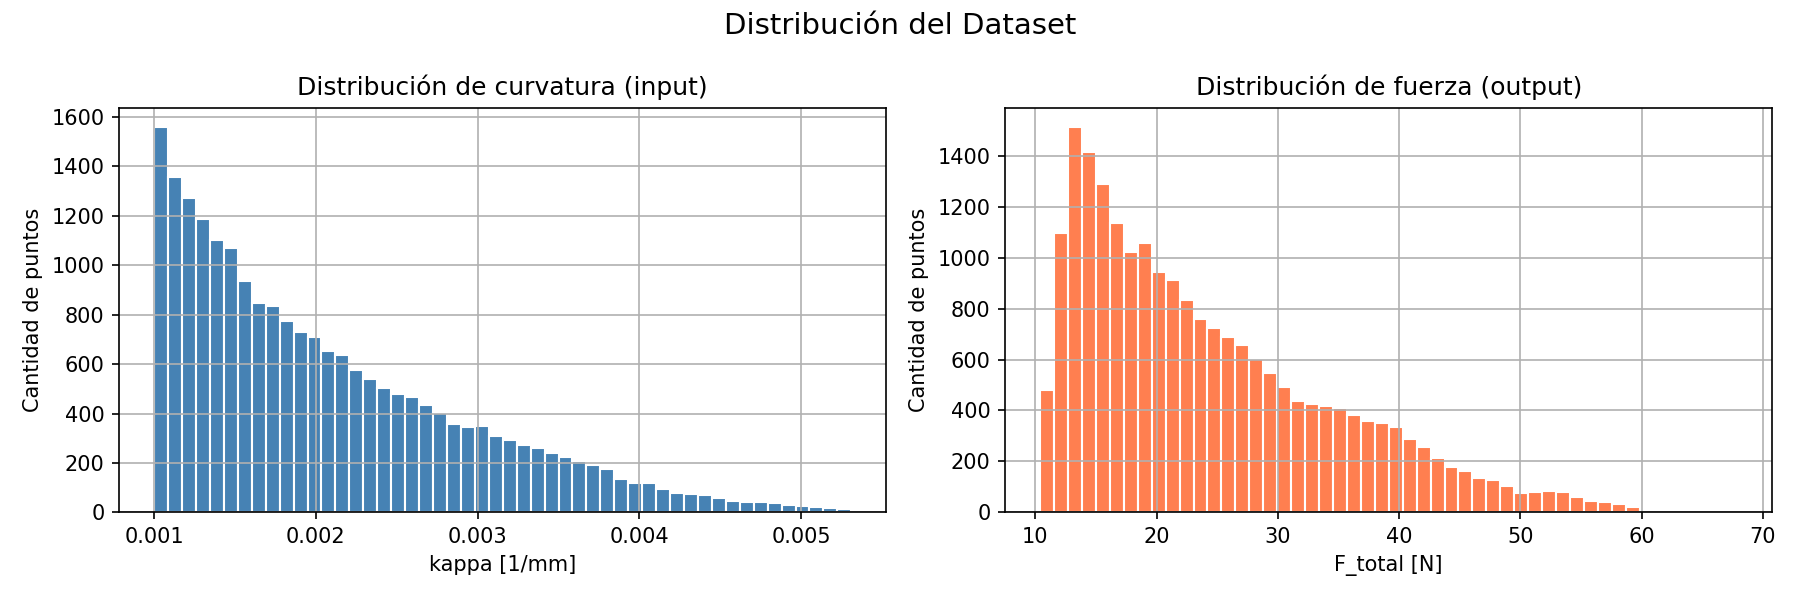
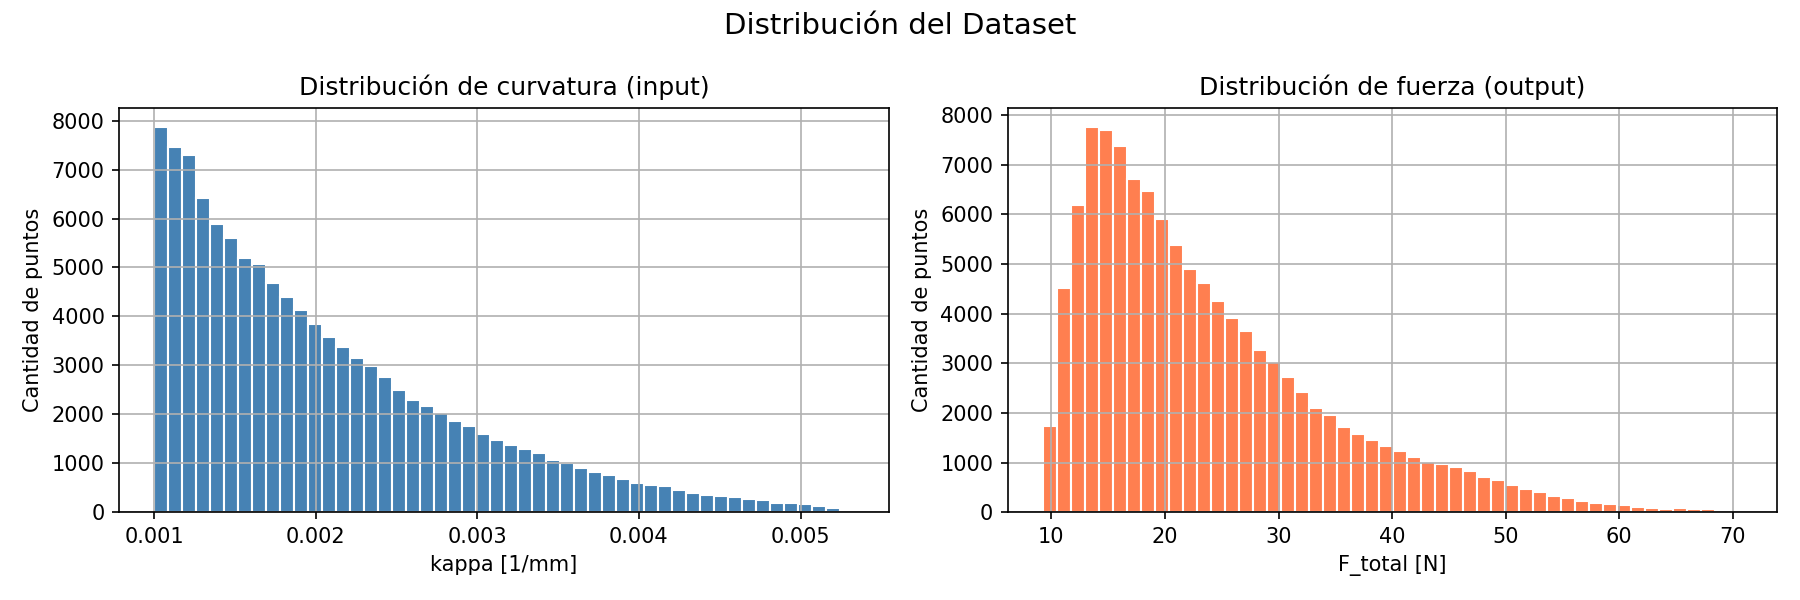
.

diff --git a/NeuralNetwork/control.py b/NeuralNetwork/control.py
@@ -32,6 +32,12 @@ from trayectoria import TrayectoriaIdeal, generar_waypoints_random
 RUIDO_IMU_I  = 0.5
 RUIDO_IMU_A  = 2
 
+# ROP y RPM — fijos y conocidos en cada corrida (los fija el operador,
+# a diferencia del UCS que hay que estimar)
+ROP_SIM = 15.0    # [mm/min] <<<< AJUSTAR: dentro de [5,30] (rango del dataset)
+RPM_SIM = 1500.0  # [rpm]    <<<< AJUSTAR: dentro de [1000,2000] (rango del dataset)
+
+
 # Variabilidad del UCS
 RUIDO_UCS_LOCAL = 0.5
 N_NODOS_UCS    = 6
@@ -101,23 +107,23 @@ def generar_perfil_epsilon(z_max, semilla=None):
 # PLANTA: INVERSIÓN DE LA RED NEURONAL
 # ─────────────────────────────────────────────────────────────
 
-def calcular_kappa_real(modelo, stats, F_comandada, epsilon_real):
+def calcular_kappa_real(modelo, stats, F_comandada, rop, rpm, epsilon_real):
     """Dada F y ε_real, encuentra κ_real por bisección usando evaluar_red_roca."""
     kappa_min = float(stats['X_min'][0])
     kappa_max = float(stats['X_max'][0])
 
-    F_min = evaluar_red_roca(modelo, stats, kappa_min, epsilon_real)
+    F_min = evaluar_red_roca(modelo, stats, kappa_min, rop, rpm, epsilon_real)
     if F_comandada <= F_min:
         return kappa_min * (F_comandada / F_min) if F_min > 0 else 0.0
 
-    F_max = evaluar_red_roca(modelo, stats, kappa_max, epsilon_real)
+    F_max = evaluar_red_roca(modelo, stats, kappa_max, rop, rpm, epsilon_real)
     if F_comandada >= F_max:
         return kappa_max
 
     k_lo, k_hi = kappa_min, kappa_max
     for _ in range(50):
         k_mid = (k_lo + k_hi) / 2
-        if evaluar_red_roca(modelo, stats, k_mid, epsilon_real) < F_comandada:
+        if evaluar_red_roca(modelo, stats, k_mid, rop, rpm, epsilon_real) < F_comandada:
             k_lo = k_mid
         else:
             k_hi = k_mid
@@ -125,14 +131,10 @@ def calcular_kappa_real(modelo, stats, F_comandada, epsilon_real):
     return (k_lo + k_hi) / 2
 
 
-# ─────────────────────────────────────────────────────────────
-# ESTIMACIÓN DE ε POR BISECCIÓN
-# ─────────────────────────────────────────────────────────────
-
-def estimar_epsilon(modelo, stats, kappa_real, F_roca_aplicada):
+def estimar_epsilon(modelo, stats, kappa_real, rop, rpm, F_roca_aplicada):
     """Dado κ_real y F_roca aplicada, encuentra ε por bisección usando evaluar_red_roca."""
-    F_at_min = evaluar_red_roca(modelo, stats, kappa_real, EPSILON_MIN)
-    F_at_max = evaluar_red_roca(modelo, stats, kappa_real, EPSILON_MAX)
+    F_at_min = evaluar_red_roca(modelo, stats, kappa_real, rop, rpm, EPSILON_MIN)
+    F_at_max = evaluar_red_roca(modelo, stats, kappa_real, rop, rpm, EPSILON_MAX)
 
     if F_roca_aplicada <= min(F_at_min, F_at_max):
         return EPSILON_MIN
@@ -142,7 +144,7 @@ def estimar_epsilon(modelo, stats, kappa_real, F_roca_aplicada):
     e_lo, e_hi = EPSILON_MIN, EPSILON_MAX
     for _ in range(50):
         e_mid = (e_lo + e_hi) / 2
-        F_mid = evaluar_red_roca(modelo, stats, kappa_real, e_mid)
+        F_mid = evaluar_red_roca(modelo, stats, kappa_real, rop, rpm, e_mid)
         if F_mid < F_roca_aplicada:
             e_lo = e_mid
         else:
@@ -150,16 +152,20 @@ def estimar_epsilon(modelo, stats, kappa_real, F_roca_aplicada):
 
     return (e_lo + e_hi) / 2
 
-
 # ─────────────────────────────────────────────────────────────
 # SIMULACIÓN DE PERFORACIÓN
 # ─────────────────────────────────────────────────────────────
 
 def simular_perforacion(modelo, stats, semilla_trayectoria=None,
                          adaptacion_activa=None, verbose=True, graficar=True,
-                         error_saturacion=None, k_d=None):
+                         error_saturacion=None, k_d=None,
+                         rop=None, rpm=None):
     if adaptacion_activa is None:
         adaptacion_activa = ADAPTACION_ACTIVA
+    if rop is None:
+        rop = ROP_SIM
+    if rpm is None:
+        rpm = RPM_SIM
 
     rng_tray = np.random.default_rng(semilla_trayectoria)
     waypoints_curva = generar_waypoints_random(rng=rng_tray)
@@ -206,6 +212,7 @@ def simular_perforacion(modelo, stats, semilla_trayectoria=None,
         print("\n" + "═" * 85)
         print("SIMULACIÓN DE PERFORACIÓN")
         print("═" * 85)
+        print(f"  ROP={rop:.1f} mm/min, RPM={rpm:.0f}")
         print(f"  Ruido IMU: σ_I={RUIDO_IMU_I}°, σ_A={RUIDO_IMU_A}°")
         print(f"  Ruido UCS local: σ={RUIDO_UCS_LOCAL} MPa")
         print(f"  Adaptación ε: {'BISECCIÓN' if adaptacion_activa else 'DESACTIVADA'}")
@@ -231,7 +238,7 @@ def simular_perforacion(modelo, stats, semilla_trayectoria=None,
             F_opt, error_pos, curv_des = ciclo_control(
                 modelo, stats, trayectoria,
                 pos_real, I_medido, A_medido, pos_real[2],
-                epsilon_estimado,
+                rop, rpm, epsilon_estimado,
                 error_saturacion=error_saturacion,
                 error_anterior=error_anterior,
                 k_d=k_d
@@ -242,9 +249,9 @@ def simular_perforacion(modelo, stats, semilla_trayectoria=None,
             kappa_comandado = np.sqrt(curv_des[0]**2 + curv_des[1]**2) * np.pi / 180
 
             if kappa_comandado > 1e-8:
-                F_roca_comandada = evaluar_red_roca(modelo, stats, kappa_comandado, epsilon_estimado)
+                F_roca_comandada = evaluar_red_roca(modelo, stats, kappa_comandado, rop, rpm, epsilon_estimado)
 
-                kappa_real = calcular_kappa_real(modelo, stats, F_roca_comandada, eps_real)
+                kappa_real = calcular_kappa_real(modelo, stats, F_roca_comandada, rop, rpm, eps_real)
 
                 historial_kappa_cmd.append(kappa_comandado)
                 historial_kappa_real.append(kappa_real)
@@ -257,9 +264,9 @@ def simular_perforacion(modelo, stats, semilla_trayectoria=None,
                 # ── Estimación de ε por bisección ─────────────
                 if adaptacion_activa and kappa_real > 1e-8:
                     eps_instantaneo = estimar_epsilon(
-                        modelo, stats, kappa_real, F_roca_comandada
+                        modelo, stats, kappa_real, rop, rpm, F_roca_comandada
                     )
-
+                    
                     historial_eps_estimados.append(eps_instantaneo)
                     if len(historial_eps_estimados) > VENTANA_SUAVIZADO:
                         historial_eps_estimados.pop(0)

diff --git a/NeuralNetwork/optimizador.py b/NeuralNetwork/optimizador.py
@@ -38,41 +38,45 @@ def aplicar_filtro_vectorial_theta(theta_deg, alpha=ALPHA_FILTRO_THETA):
     ux_nuevo = np.cos(th_rad)
     uy_nuevo = np.sin(th_rad)
 
-    # Inicialización en el primer paso
     if _ux_prev is None or _uy_prev is None:
         _ux_prev = ux_nuevo
         _uy_prev = uy_nuevo
         return theta_deg
 
-    # Filtro paso bajo exponencial (IIR) en X e Y
     ux_filt = alpha * ux_nuevo + (1.0 - alpha) * _ux_prev
     uy_filt = alpha * uy_nuevo + (1.0 - alpha) * _uy_prev
 
     _ux_prev = ux_filt
     _uy_prev = uy_filt
 
-    # Recomponer ángulo filtrado
     theta_filt_deg = np.degrees(np.arctan2(uy_filt, ux_filt)) % 360
     return theta_filt_deg
 
 
-def evaluar_red_roca(modelo, stats, kappa, epsilon):
+def evaluar_red_roca(modelo, stats, kappa, rop, rpm, epsilon):
+    """Evalúa la red [kappa, ROP, RPM, epsilon] -> F_roca."""
     modelo.eval()
     kappa_min = float(stats['X_min'][0])
     kappa_max = float(stats['X_max'][0])
-    eps_min = float(stats['X_min'][1])
-    eps_max = float(stats['X_max'][1])
+    rop_min = float(stats['X_min'][1])
+    rop_max = float(stats['X_max'][1])
+    rpm_min = float(stats['X_min'][2])
+    rpm_max = float(stats['X_max'][2])
+    eps_min = float(stats['X_min'][3])
+    eps_max = float(stats['X_max'][3])
 
+    rop_norm = (rop - rop_min) / (rop_max - rop_min + 1e-8)
+    rpm_norm = (rpm - rpm_min) / (rpm_max - rpm_min + 1e-8)
     eps_norm = (epsilon - eps_min) / (eps_max - eps_min + 1e-8)
 
     if kappa < kappa_min:
-        x_min_input = torch.tensor([[0.0, eps_norm]], dtype=torch.float32)
+        x_min_input = torch.tensor([[0.0, rop_norm, rpm_norm, eps_norm]], dtype=torch.float32)
         with torch.no_grad():
             F_at_min = desnormalizar_y(modelo(x_min_input), stats).item()
         F_roca = F_at_min * (kappa / kappa_min) if kappa_min > 0 else 0.0
     else:
         kappa_norm = (kappa - kappa_min) / (kappa_max - kappa_min + 1e-8)
-        x_input = torch.tensor([[kappa_norm, eps_norm]], dtype=torch.float32)
+        x_input = torch.tensor([[kappa_norm, rop_norm, rpm_norm, eps_norm]], dtype=torch.float32)
         with torch.no_grad():
             F_roca = desnormalizar_y(modelo(x_input), stats).item()
 
@@ -132,7 +136,7 @@ def descomponer_en_pads(F_total, theta_push_deg):
     return max(T1, 0.0), max(T2, 0.0), max(T3, 0.0)
 
 
-def control_completo(modelo, stats, dIds_deseado, dAds_deseado, pos_actual, epsilon):
+def control_completo(modelo, stats, dIds_deseado, dAds_deseado, pos_actual, rop, rpm, epsilon):
     from config import SARTA_K
 
     kappa_deseado = np.sqrt(dIds_deseado**2 + dAds_deseado**2) * np.pi / 180
@@ -140,9 +144,6 @@ def control_completo(modelo, stats, dIds_deseado, dAds_deseado, pos_actual, epsi
     F_sarta = SARTA_K * delta
 
     if kappa_deseado < 1e-8:
-        # Sin corrección activa: no hay F_roca, pero la sarta sigue
-        # empujando por su propia deflexión. Se aplica en la dirección
-        # de la deflexión actual (no hay dirección de corrección definida).
         if delta > 1e-8:
             theta_deflexion = np.degrees(np.arctan2(pos_actual[1], pos_actual[0]))
             theta_push = aplicar_filtro_vectorial_theta(theta_deflexion, alpha=ALPHA_FILTRO_THETA)
@@ -150,18 +151,13 @@ def control_completo(modelo, stats, dIds_deseado, dAds_deseado, pos_actual, epsi
             return T1, T2, T3, F_sarta, 0.0
         return 0.0, 0.0, 0.0, 0.0, 0.0
 
-    # 1. Dirección bruta
     theta_mov = np.degrees(np.arctan2(dAds_deseado, dIds_deseado))
     theta_push_bruto = (theta_mov + 180) % 360
-
-    # 2. Dirección filtrada (suaviza chattering)
     theta_push = aplicar_filtro_vectorial_theta(theta_push_bruto, alpha=ALPHA_FILTRO_THETA)
 
-    # 3. Fuerza de roca y sarta
-    F_roca = evaluar_red_roca(modelo, stats, kappa_deseado, epsilon)
+    F_roca = evaluar_red_roca(modelo, stats, kappa_deseado, rop, rpm, epsilon)
     F_total = F_roca + F_sarta
 
-    # 4. Descomposición con histéresis y theta suavizado
     T1, T2, T3 = descomponer_en_pads(F_total, theta_push)
 
     return T1, T2, T3, F_total, kappa_deseado

diff --git a/NeuralNetwork/navegacion.py b/NeuralNetwork/navegacion.py
@@ -175,7 +175,7 @@ def calcular_curvatura_deseada(pos_actual, I_actual, A_actual,
 # ─────────────────────────────────────────────────────────────
 
 def ciclo_control(modelo, stats, trayectoria,
-                  pos_actual, I_actual, A_actual, z_actual, epsilon,
+                  pos_actual, I_actual, A_actual, z_actual, rop, rpm, epsilon,
                   error_saturacion=None, error_anterior=None, k_d=None):
     """
     Ejecuta un ciclo completo de control:
@@ -189,6 +189,7 @@ def ciclo_control(modelo, stats, trayectoria,
         pos_actual    : [x, y, z] actual [mm]
         I_actual, A_actual : inclinación y azimut actuales [°]
         z_actual      : profundidad actual [mm]
+        rop, rpm      : ROP y RPM fijos de la corrida (conocidos, no estimados)
         error_saturacion : ver calcular_curvatura_deseada
         error_anterior   : ver calcular_curvatura_deseada
         k_d              : ver calcular_curvatura_deseada
@@ -198,7 +199,6 @@ def ciclo_control(modelo, stats, trayectoria,
         error_pos : distancia lateral al punto ideal [mm]
         curv_des  : (dI/ds, dA/ds) curvatura comandada [°/mm]
     """
-    # Paso 1 — Lookahead → curvatura deseada
     dIds_des, dAds_des = calcular_curvatura_deseada(
         pos_actual, I_actual, A_actual,
         trayectoria, z_actual,
@@ -207,12 +207,10 @@ def ciclo_control(modelo, stats, trayectoria,
         k_d=k_d
     )
 
-    # Paso 2 — Red neuronal + descomposición en pads
     T1, T2, T3, F_total, kappa = control_completo(
-        modelo, stats, dIds_des, dAds_des, pos_actual, epsilon
+        modelo, stats, dIds_des, dAds_des, pos_actual, rop, rpm, epsilon
     )
 
-    # Paso 3 — Error lateral para monitoreo (no afecta el control)
     pos_ideal = trayectoria.evaluar(z_actual)
     error_pos = np.linalg.norm(pos_actual[:2] - pos_ideal[:2])
 

diff --git a/NeuralNetwork/main.py b/NeuralNetwork/main.py
@@ -97,7 +97,13 @@ if __name__ == "__main__":
 
     # Agregar posición de ejemplo
     pos_ejemplo = np.array([50.0, 20.0, 300.0])
+    rop_ejemplo = 15.0
+    rpm_ejemplo = 1500.0
     epsilon_ejemplo = 25.0  # UCS estimado [MPa]
+
+    T1, T2, T3, F_total, kappa = control_completo(
+        modelo, stats, dIds_objetivo, dAds_objetivo, pos_ejemplo, rop_ejemplo, rpm_ejemplo, epsilon_ejemplo
+    )
 
     T1, T2, T3, F_total, kappa = control_completo(
         modelo, stats, dIds_objetivo, dAds_objetivo, pos_ejemplo, epsilon_ejemplo
